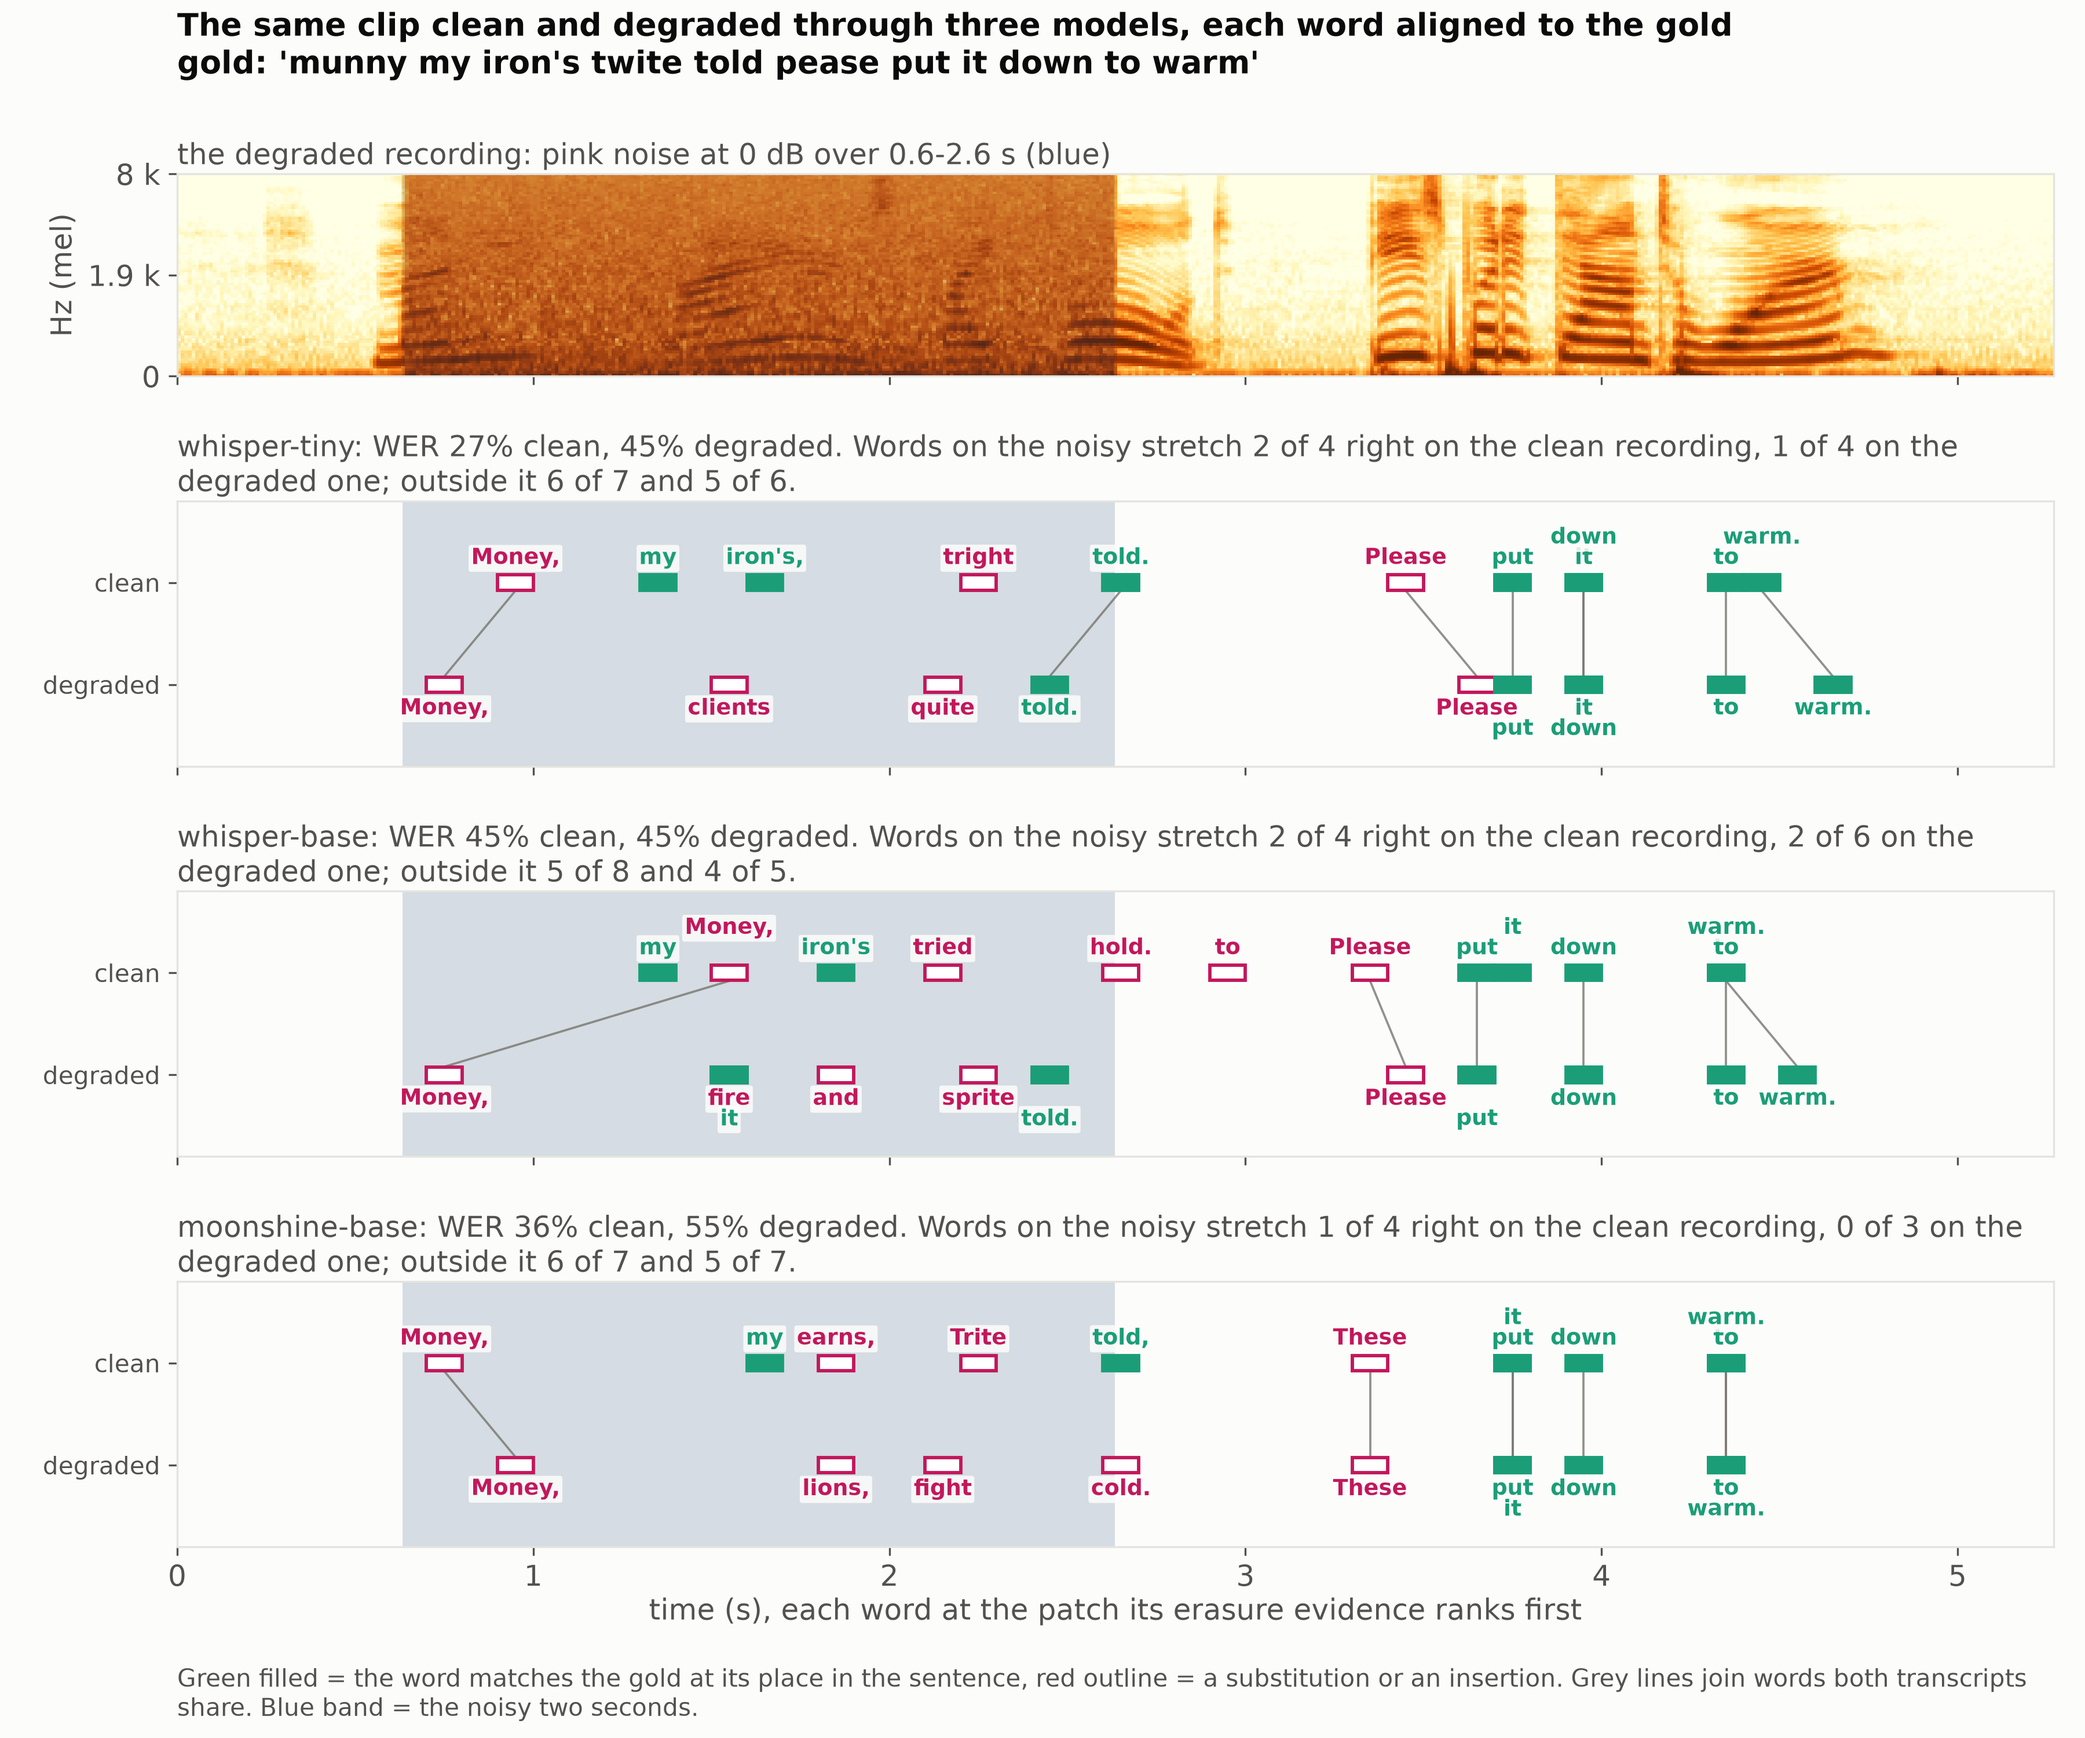
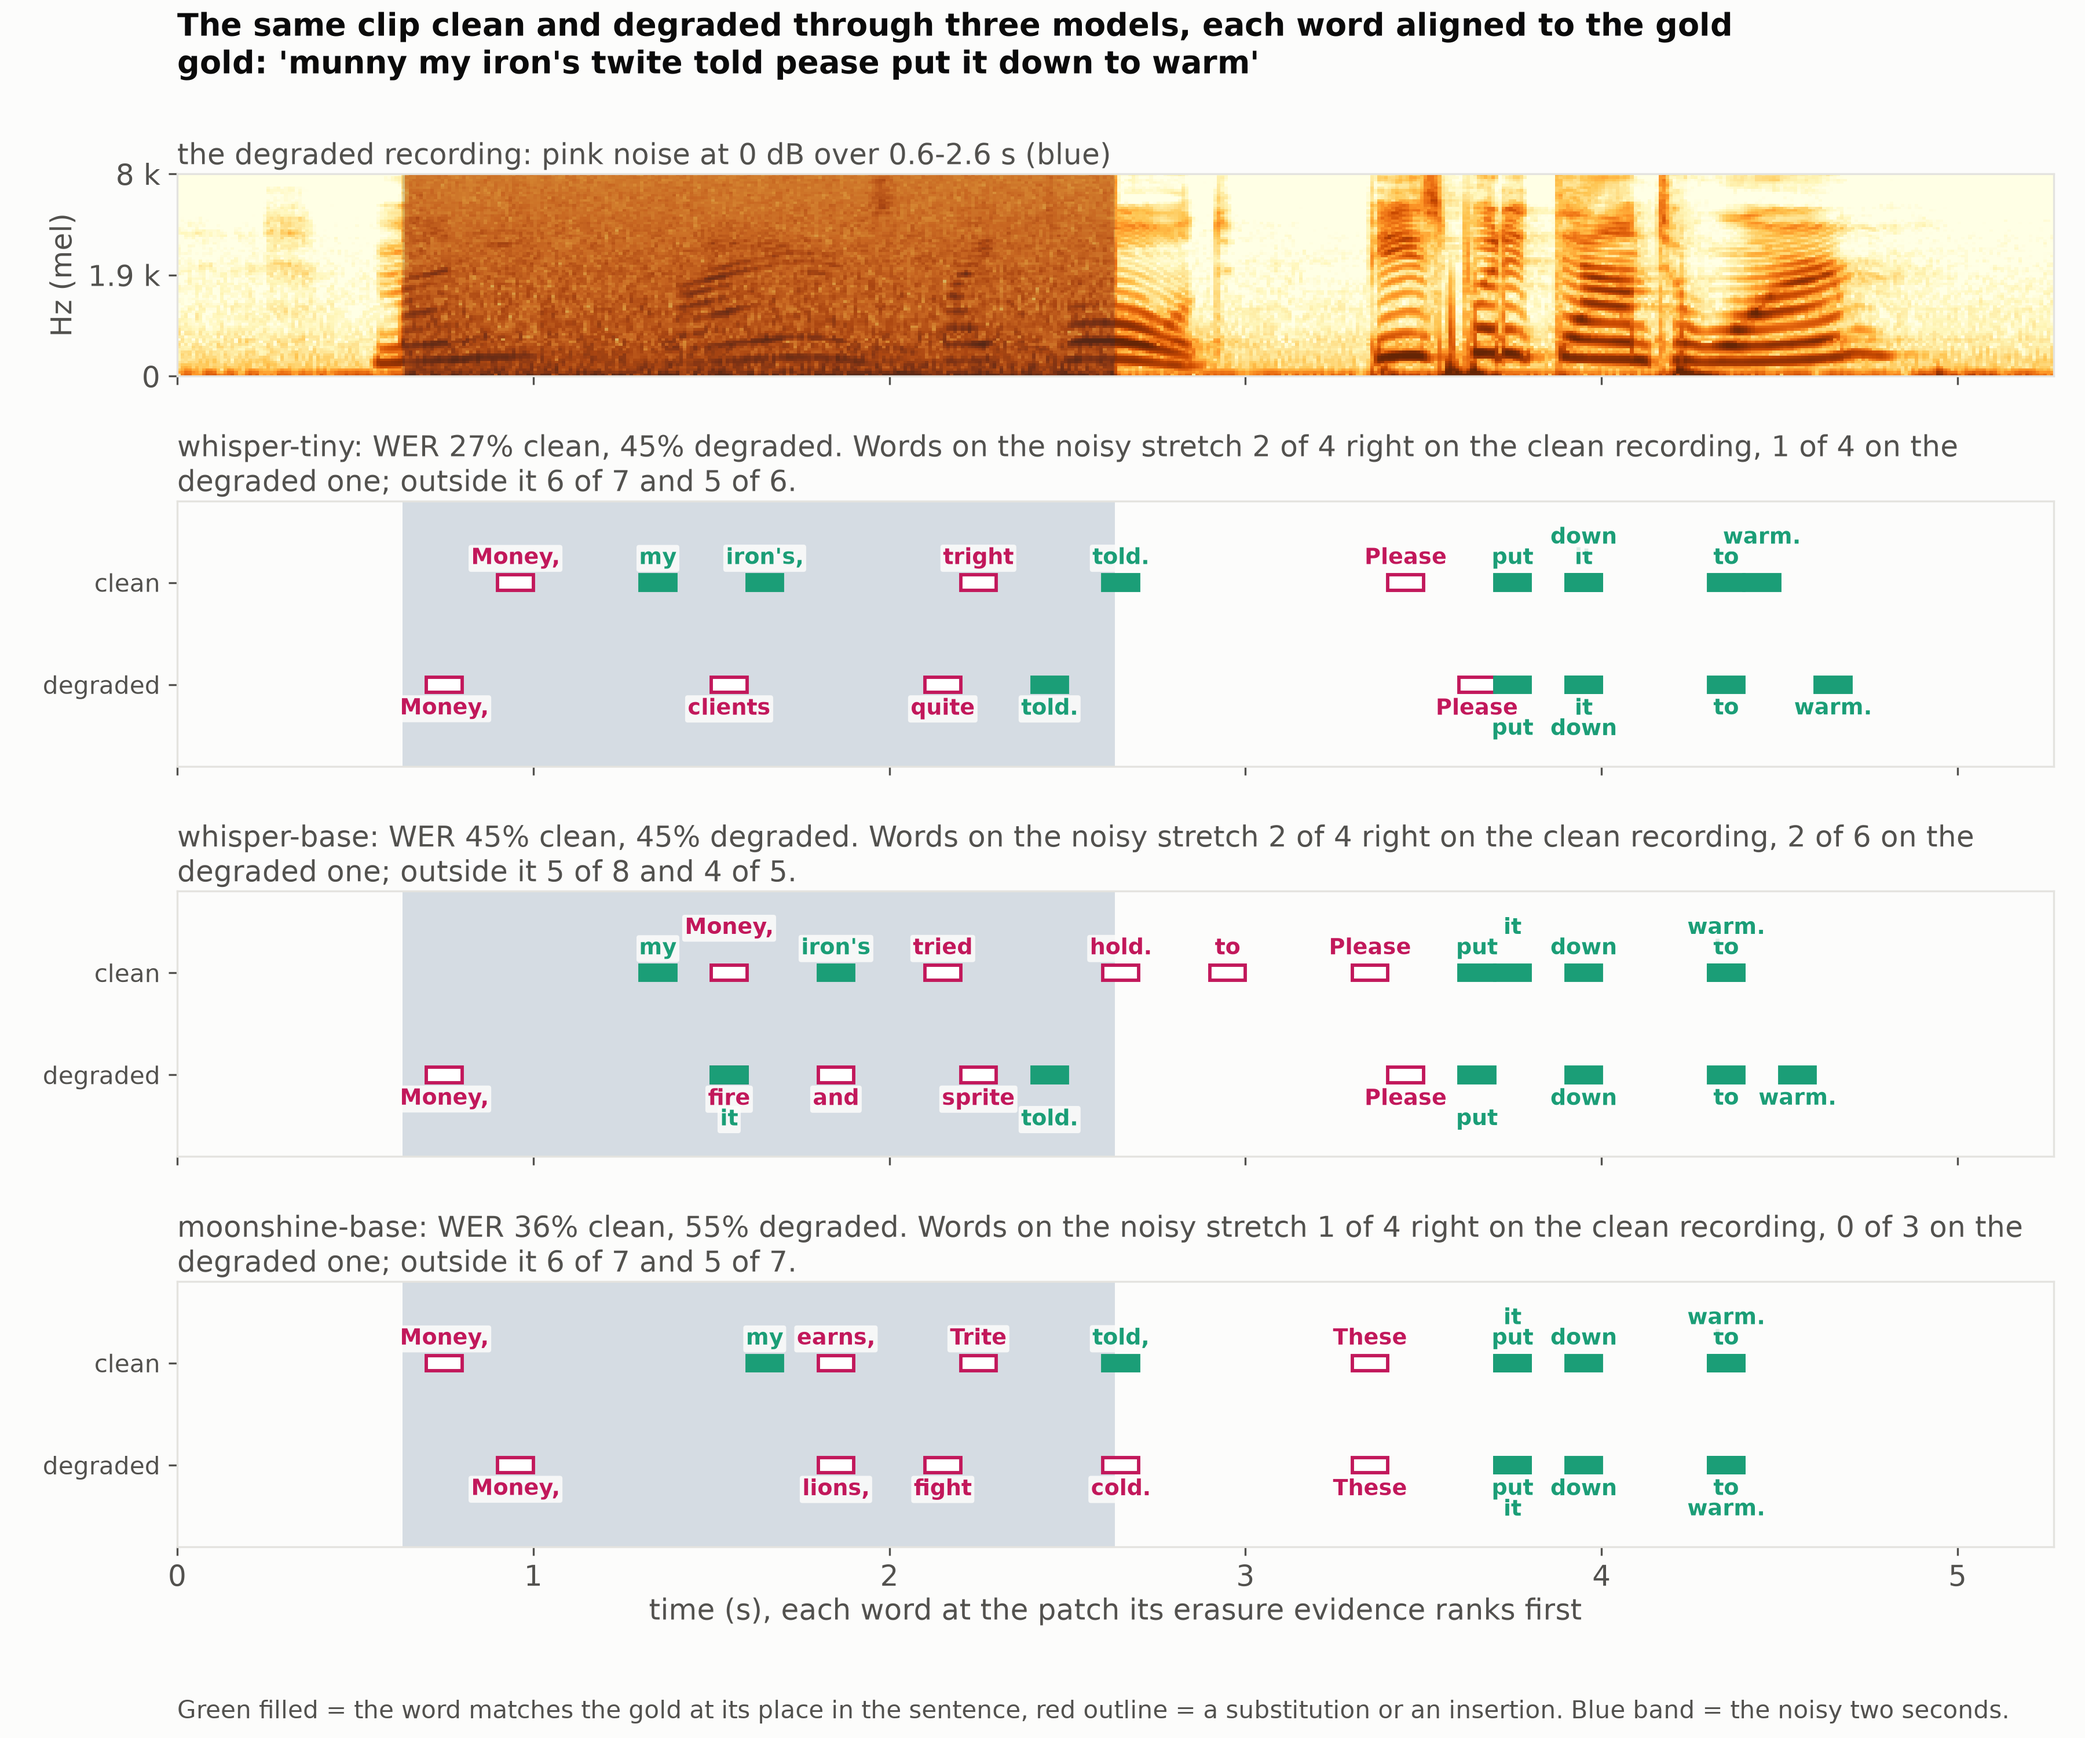
WER comparison figure: no link lines between the two transcripts

Changed region(s): [[0.0933, 0.961, 0.9644, 0.992]]

diff --git a/experiments/ambiguous_wer.py b/experiments/ambiguous_wer.py
@@ -1,6 +1,5 @@
 """Why the word error rate moved on the ambiguous clip: the clean and the degraded transcript of each
-model aligned to the gold, every word placed on the audio where its erasure evidence sits, the words
-both transcripts share linked. Reads the controlled experiment's saved attributions (no model run).
+model aligned to the gold, every word placed on the audio where its erasure evidence sits. Reads the controlled experiment's saved attributions (no model run).
 
 Usage: python experiments/ambiguous_wer.py
 Writes figures/controlled_noise_wer__<clip>.png (+ svg) and experiments/results/ambiguous/wer_words.csv, wer_summary.md
@@ -96,13 +95,12 @@ def main():
                 inwin = a <= w["t"] <= b if np.isfinite(w["t"]) else False
                 mass_in = float(np.nansum(w["prof"][int(a / att.patch_s): int(np.ceil(b / att.patch_s))])) if np.isfinite(w["prof"]).any() else np.nan
                 rows.append(dict(model=model, cond=cond, word=w["text"], norm=w["norm"], status=st, t=w["t"], in_window=inwin, mass_in_window=mass_in))
-        # links between words both transcripts share (same normalised word, nearest in time)
+        # words both transcripts share (same normalised word, nearest in time), counted for the table
         used = set()
         for wc in per["clean"]["words"]:
             cands = [(abs(wd["t"] - wc["t"]), j) for j, wd in enumerate(per["deg"]["words"]) if wd["norm"] == wc["norm"] and j not in used]
             if cands and min(cands)[0] <= 1.0:
-                j = min(cands)[1]; used.add(j); wd = per["deg"]["words"][j]
-                ax.plot([wc["t"], wd["t"]], [0.92, 0.08], color=S.muted, lw=0.9, alpha=0.8, zorder=1)
+                used.add(min(cands)[1])
         for cond, y, sign in (("clean", 1.0, 1), ("deg", 0.0, -1)):
             p = per[cond]
             rows_end = [-1.0, -1.0, -1.0]                       # right edge of the last label in each label row
@@ -145,7 +143,7 @@ def main():
     fig.suptitle(wrap_to_width(f"The same clip clean and degraded through three models, each word aligned to the gold\ngold: '{gold}'",
                                axis_pt, S.font_size + 1, "bold", S.font), x=left, ha="left", fontsize=S.font_size + 1, fontweight="bold", color=S.text, y=0.995, va="top")
     fig.text(left, 0.008, wrap_to_width("Green filled = the word matches the gold at its place in the sentence, red outline = a substitution or an "
-             "insertion. Grey lines join words both transcripts share. Blue band = the noisy two seconds.", axis_pt, S.label_size, font=S.font),
+             "insertion. Blue band = the noisy two seconds.", axis_pt, S.label_size, font=S.font),
              fontsize=S.label_size, color=S.text_soft, va="bottom")
     out = FIG / f"controlled_noise_wer__{CLIP}.png"
     fig.savefig(out, dpi=S.dpi, facecolor=S.background); fig.savefig(out.with_suffix(".svg"), facecolor=S.background); plt.close(fig)

diff --git a/README.md b/README.md
@@ -347,12 +347,11 @@ on its clean twin, for both models (`experiments/ambiguous_case.py`).
 
 First, why the word error rate moved on this clip, and why for whisper-base it did not: the clean and
 the degraded transcript of each model aligned to the gold, every word placed where its erasure evidence
-ranks first, the words both transcripts share joined (`experiments/ambiguous_wer.py`, from the saved
-attributions).
+ranks first (`experiments/ambiguous_wer.py`, from the saved attributions).
 
 <p align="center">
-  <img src="figures/controlled_noise_wer__2094-142345-0024.png" width="860" alt="For each of the three models two rows of words, the clean and the degraded transcript, each word placed at the patch its erasure evidence ranks first, green when it matches the gold and red when not, with grey lines joining the words both transcripts share; the noisy two seconds are a blue band">
-  <br><sub>Green filled = right at its place in the sentence, red outline = substitution or insertion. Grey lines join the words both transcripts share.</sub>
+  <img src="figures/controlled_noise_wer__2094-142345-0024.png" width="860" alt="For each of the three models two rows of words, the clean and the degraded transcript, each word placed at the patch its erasure evidence ranks first, green when it matches the gold and red when not; the noisy two seconds are a blue band">
+  <br><sub>Green filled = right at its place in the sentence, red outline = substitution or insertion.</sub>
 </p>
 
 * **The error rate moves only through the noisy two seconds.** After the noise, "put it down to
